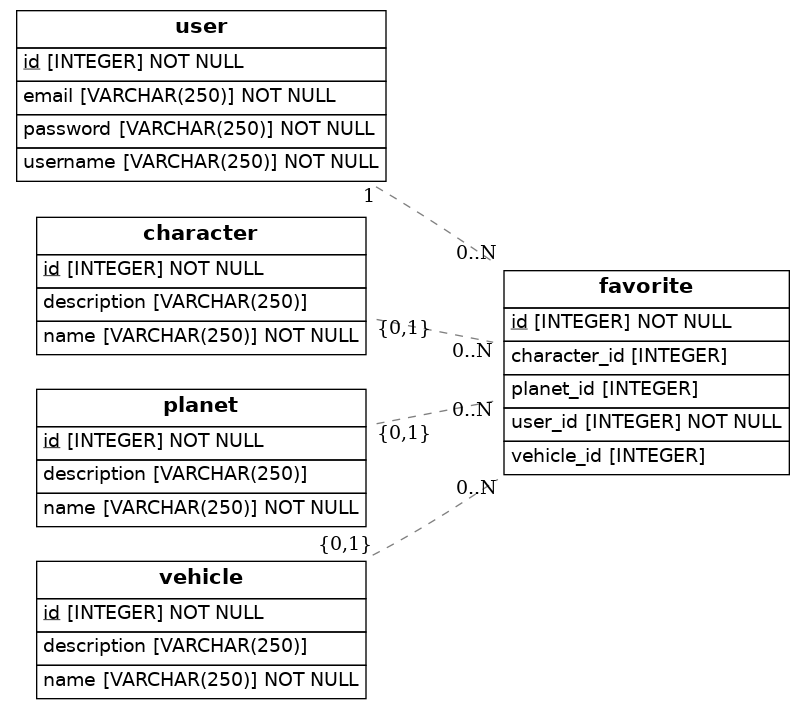
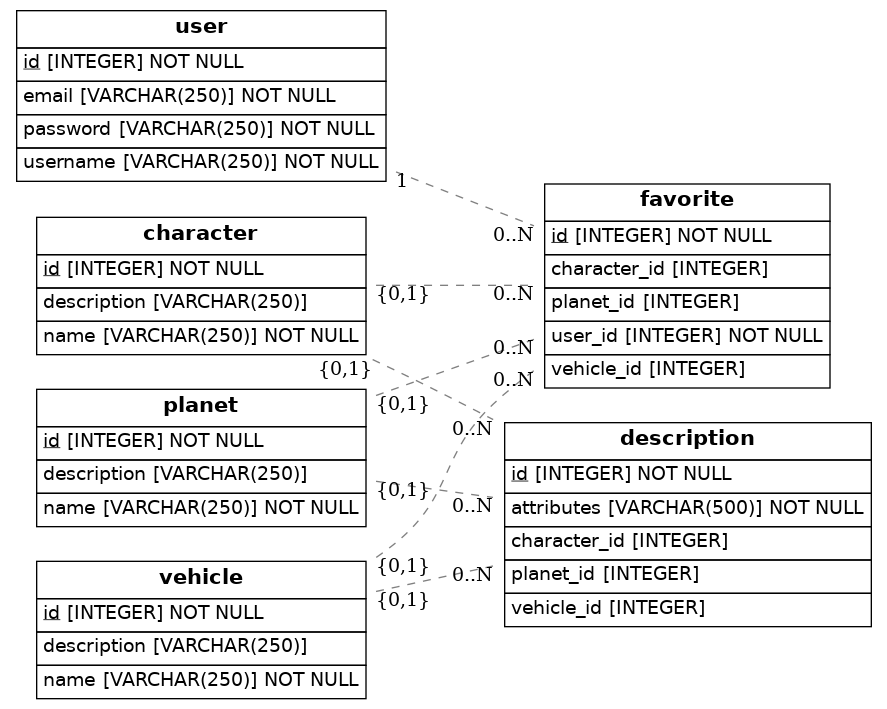
adding description class

diff --git a/src/models.py b/src/models.py
@@ -20,17 +20,35 @@ class Character(Base):
     name = Column(String(250), nullable=False)
     description = Column(String(250))
 
+    descriptions = relationship("Description", back_populates="character")
+
 class Planet(Base):
     __tablename__ = 'planet'
     id = Column(Integer, primary_key=True)
     name = Column(String(250), nullable=False)
     description = Column(String(250))
 
+    descriptions = relationship("Description", back_populates="planet")
+
 class Vehicle(Base):
     __tablename__ = 'vehicle'
     id = Column(Integer, primary_key=True)
     name = Column(String(250), nullable=False)
     description = Column(String(250))
+
+    descriptions = relationship("Description", back_populates="vehicle")
+
+class Description(Base):
+    __tablename__ = 'description'
+    id = Column(Integer, primary_key=True)
+    character_id = Column(Integer, ForeignKey('character.id'), nullable=True)
+    planet_id = Column(Integer, ForeignKey('planet.id'), nullable=True)
+    vehicle_id = Column(Integer, ForeignKey('vehicle.id'), nullable=True)
+    attributes = Column(String(500), nullable=False)
+
+    character = relationship("Character", back_populates="descriptions")
+    planet = relationship("Planet", back_populates="descriptions")
+    vehicle = relationship("Vehicle", back_populates="descriptions")
 
 class Favorite(Base):
     __tablename__ = 'favorite'
@@ -48,7 +66,7 @@ class Favorite(Base):
 User.favorites = relationship("Favorite", order_by=Favorite.id, back_populates="user")
 
 def to_dict(self):
-        return {}
+    return {}
 
 ## Draw from SQLAlchemy base
 render_er(Base, 'diagram.png')
